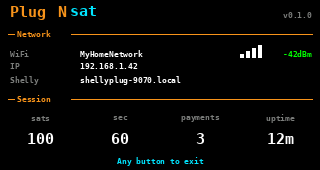
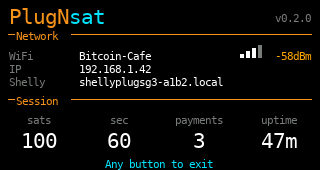
docs: fix coherence issues across README, quick-start and user-manual for battery model and settings menu

diff --git a/docs/user-manual.md b/docs/user-manual.md
@@ -131,14 +131,19 @@ If a WiFi network was previously configured, pressing any button exits AP mode a
 ## Settings menu
 
 Press **BTN1** (short press) from the QR screen to enter the Settings menu.
+<p>
+    <img src="images/plugnsat-screen-settings.png" width="280">
+    <img src="images/plugnsat-screen-settings-battery.png" width="280">
+<p>
 
-<img src="images/plugnsat-screen-settings.png" width="280">
-
-The menu has 4 options. Use **BTN1** to move between them and **BTN2** to select.
+The menu has 4 options on the USB-C model: Device Info, Brightness, Price, and Duration. On the battery model, a 5th option, Turn OFF, appears at the bottom (it puts the device into deep sleep; wake it with BTN1 or by connecting USB power). Use **BTN1** to move between options and **BTN2** to select.
 
 ### Device Info
 
-<img src="images/plugnsat-screen-device-info.png" width="280">
+<p>
+    <img src="images/plugnsat-screen-device-info-usbc.png" width="280">
+    <img src="images/plugnsat-screen-device-info-battery.png" width="280">
+<p>
 
 Displays a summary of the current device state. This information is useful for debugging and support:
 

diff --git a/README.md b/README.md
@@ -56,7 +56,7 @@ QR auto-refreshes every 4m45s before the 5-minute invoice expiry.
 1. Download the **Shelly app** ([iOS](https://apps.apple.com/app/shelly-cloud/id1147164547) / [Android](https://play.google.com/store/apps/details?id=cloud.shelly.smartcontrol))
 2. Plug the Shelly into a wall outlet
 3. Open the app and follow the instructions to add the device to your WiFi network
-4. Once connected, go to the plug settings and set **Initial state** to **Off**
+4. Once connected, open the plug settings and, under Input/Output settings, configure the Shelly to turn OFF when it has power (so the connected device stays off until a payment is received)
 
 > The Shelly must be on the same WiFi network that PlugNSat will connect to.
 
@@ -107,6 +107,7 @@ Press BTN1 from the QR screen to open the Settings menu.
 | Brightness | Adjust screen brightness (BTN1 decreases, BTN2 increases) |
 | Price | Change price in sats (BTN1 decreases, BTN2 increases) |
 | Duration | Change activation duration in seconds (BTN1 decreases, BTN2 increases) |
+| Turn OFF | Battery model only. Puts the device into deep sleep. Wake with BTN1 or by connecting USB power. |
 
 Price and Duration can be protected with a 4-digit PIN, configurable in the web portal. If a PIN is set, it must be entered before accessing these settings.
 

diff --git a/docs/quick-start.md b/docs/quick-start.md
@@ -220,7 +220,8 @@ You can click **Test connection** to verify the PlugNSat can reach the Shelly.
 
 ### Step 4 of 5: Device Settings
 
-- **Name**: a display name for your PlugNSat (up to 18 characters if shown on screen, up to 40 otherwise)
+- **Hardware model**: select **USB-C** for the mains-powered model or **Battery** for the LiPo model. Choosing Battery enables battery info on the Device Info screen and the Turn OFF (power-off) item in the settings menu. Pick the one matching your device.
+- **Name**: a display name for your PlugNSat. If "Show name on QR screen" is enabled, the name is limited to 18 characters and may only contain letters, numbers, spaces, periods, and hyphens (no other special characters). If it is not shown on screen, up to 40 characters are allowed with no character restriction.
 - **Show name on QR screen**: toggle to display the name next to the QR code
 - **Price**: amount in satoshis the customer pays per activation
 - **Duration**: how many seconds the Shelly stays on after a payment

diff --git a/ROADMAP.md b/ROADMAP.md
@@ -49,7 +49,7 @@
 - [x] Battery level indicator on screen and web portal
   - [x] Device Info: battery icon, voltage (X.XX/4.20V), percentage (LiPo curve)
   - [x] Charging icon when voltage trend is rising
-- [ ] Battery UI polish: refine design of all battery-related screen elements
+- [x] Battery UI polish: refine design of all battery-related screen elements
 - [ ] Enclosure prototypes (USB and battery): desk stand, magnetic mount, wall mount
 - [ ] Test prints for each enclosure
 - [ ] General V0.2 audit: review all new features for correctness and consistency